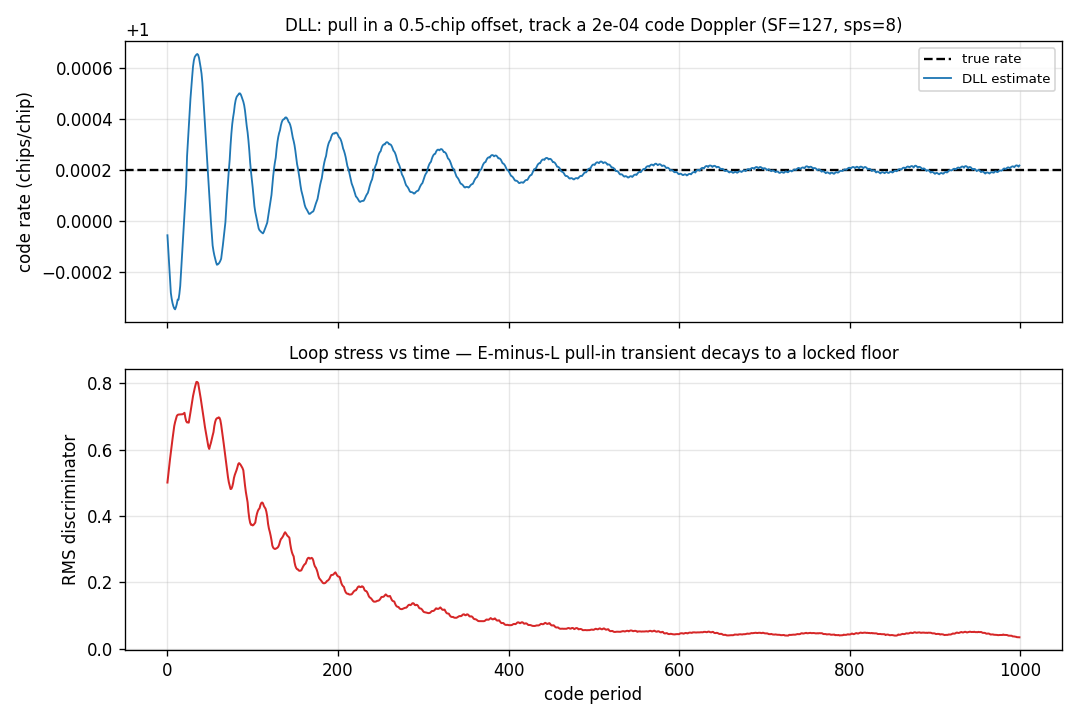
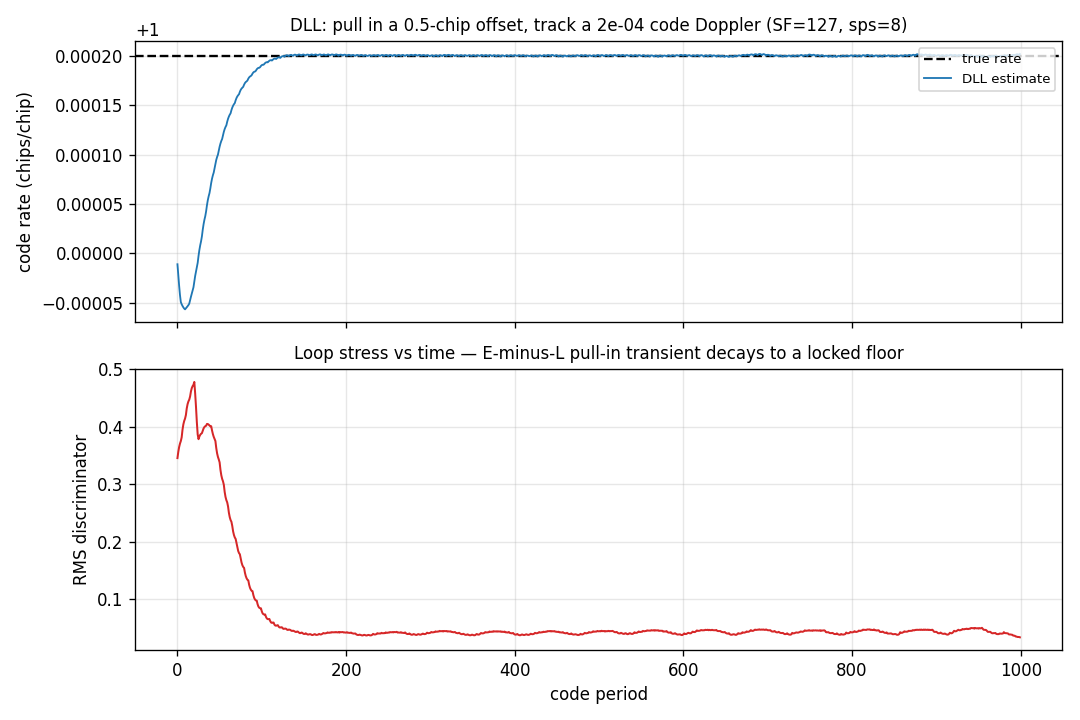
fix(examples): dll_demo's bn is derived from the ramp it must pull in
The demo ran bn 0.004, which the one-segment loop's integral path made
about 58 times wider at 127 chips (delivered ~0.23). With the path at unit
gain the loop delivers what it is asked for, and 0.004 is wn 0.0075 per
period against a code-Doppler ramp of DELTA * SF = 0.025 chip per period:
the loop loses the ramp (final rate error -0.585 of DELTA, unlocked; the
demo asserts within 0.1). CI's "Python example smoke tests" step (make
test-examples-python) failed on it on every Python version.

bn is now derived: wn = 8 zeta bn / (4 zeta^2 + 1) at least the ramp gives
bn at least 0.0135, and 0.02 gives wn 1.5 times the ramp. Measured on the
fixed loop: 0.01 to 0.05 hold the rate (error +0.002 to +0.030 of DELTA),
and 0.05 pulls in so fast that main()'s pull-in assertion fails, so 0.02
sits inside both edges (pull-in swing 0.457 against its 0.3 minimum, floor
0.045 against 0.12). The figure is regenerated from the demo.

Refs #3234

No-issue: a caller of the loop the previous commit changes, tuned against the old gain

Claude-Session: https://claude.ai/code/session_01X5GnVsntu9HeP1CeTvjjdz

diff --git a/src/doppler/examples/dll_demo.py b/src/doppler/examples/dll_demo.py
@@ -29,7 +29,14 @@ SF, SPS = 127, 8  # code length (chips), samples per chip
 NPER = 1000  # code periods
 OFFSET = 0.5  # initial replica offset, chips
 DELTA = 2e-4  # code Doppler (chip rate error)
-BN = 0.004  # loop noise bandwidth
+# Loop noise bandwidth, from the requirement. The loop must pull in a ramp of
+# DELTA * SF = 0.025 chip per period inside the discriminator's range (about
+# a chip), and a second-order loop's transient to a rate step is about the
+# rate over its natural frequency wn = 8 zeta bn / (4 zeta^2 + 1): wn at least
+# 0.025 per period, so bn at least 0.0135; 0.02 gives wn 1.5 times the ramp.
+# The upper edge is the figure's own: at 0.05 the loop pulls in so fast that
+# no transient is left to show, which main() asserts.
+BN = 0.02
 
 # The code is a MAXIMAL-LENGTH SEQUENCE from the library, not a coin flip.
 # SF = 127 is 2^7 - 1, so `PN(length=7)` fills the period exactly, and the
